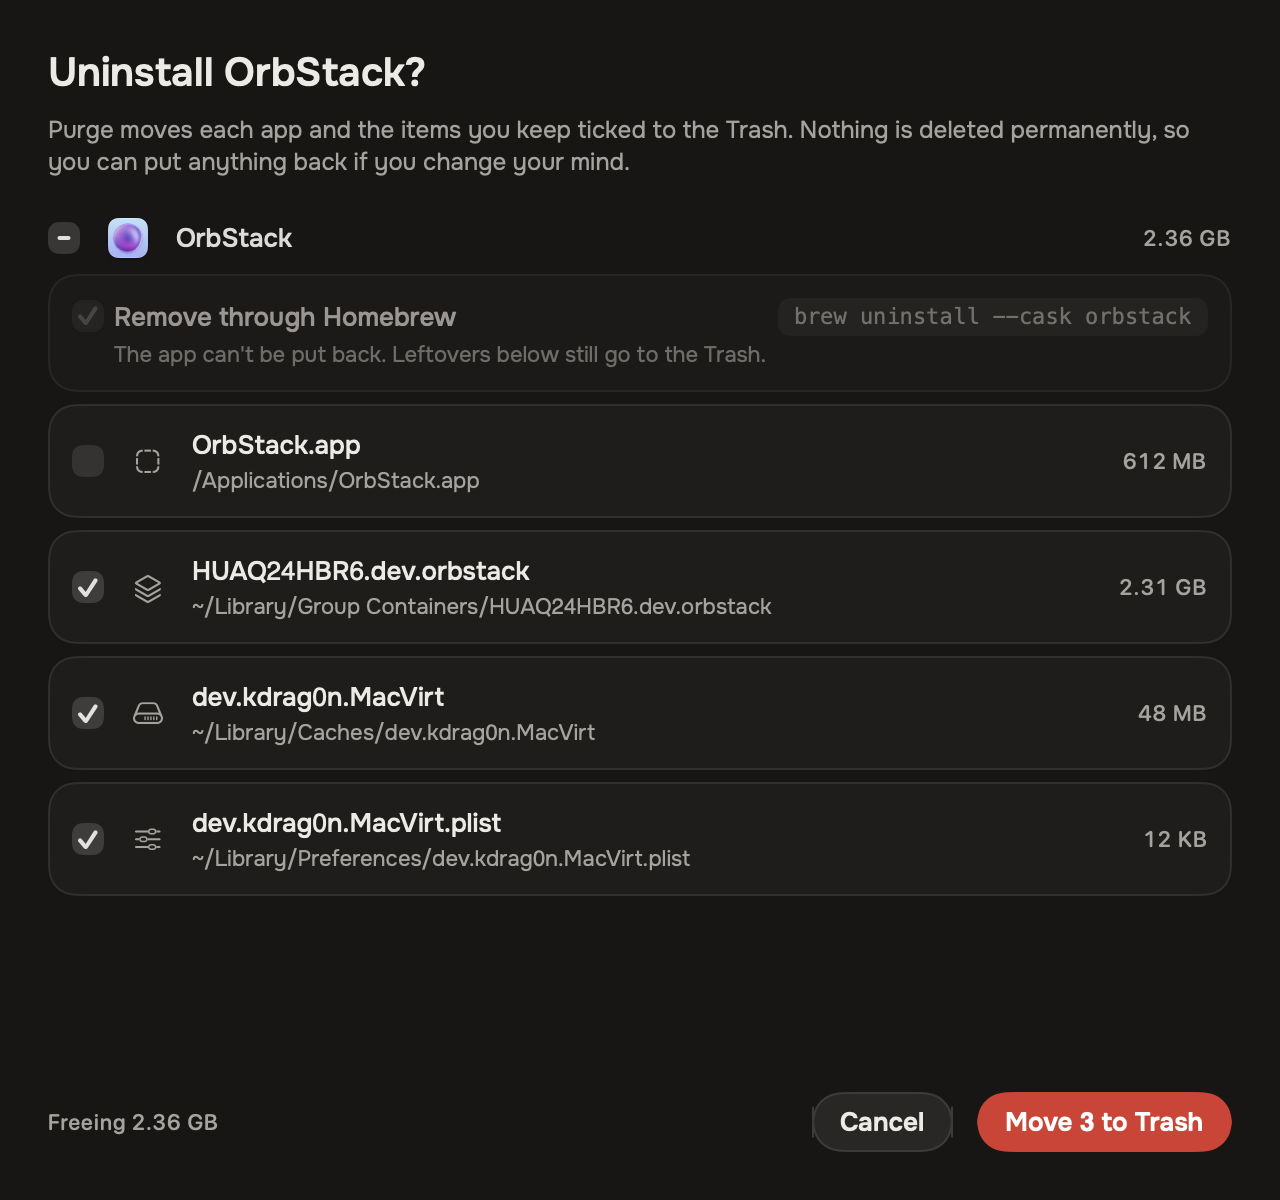
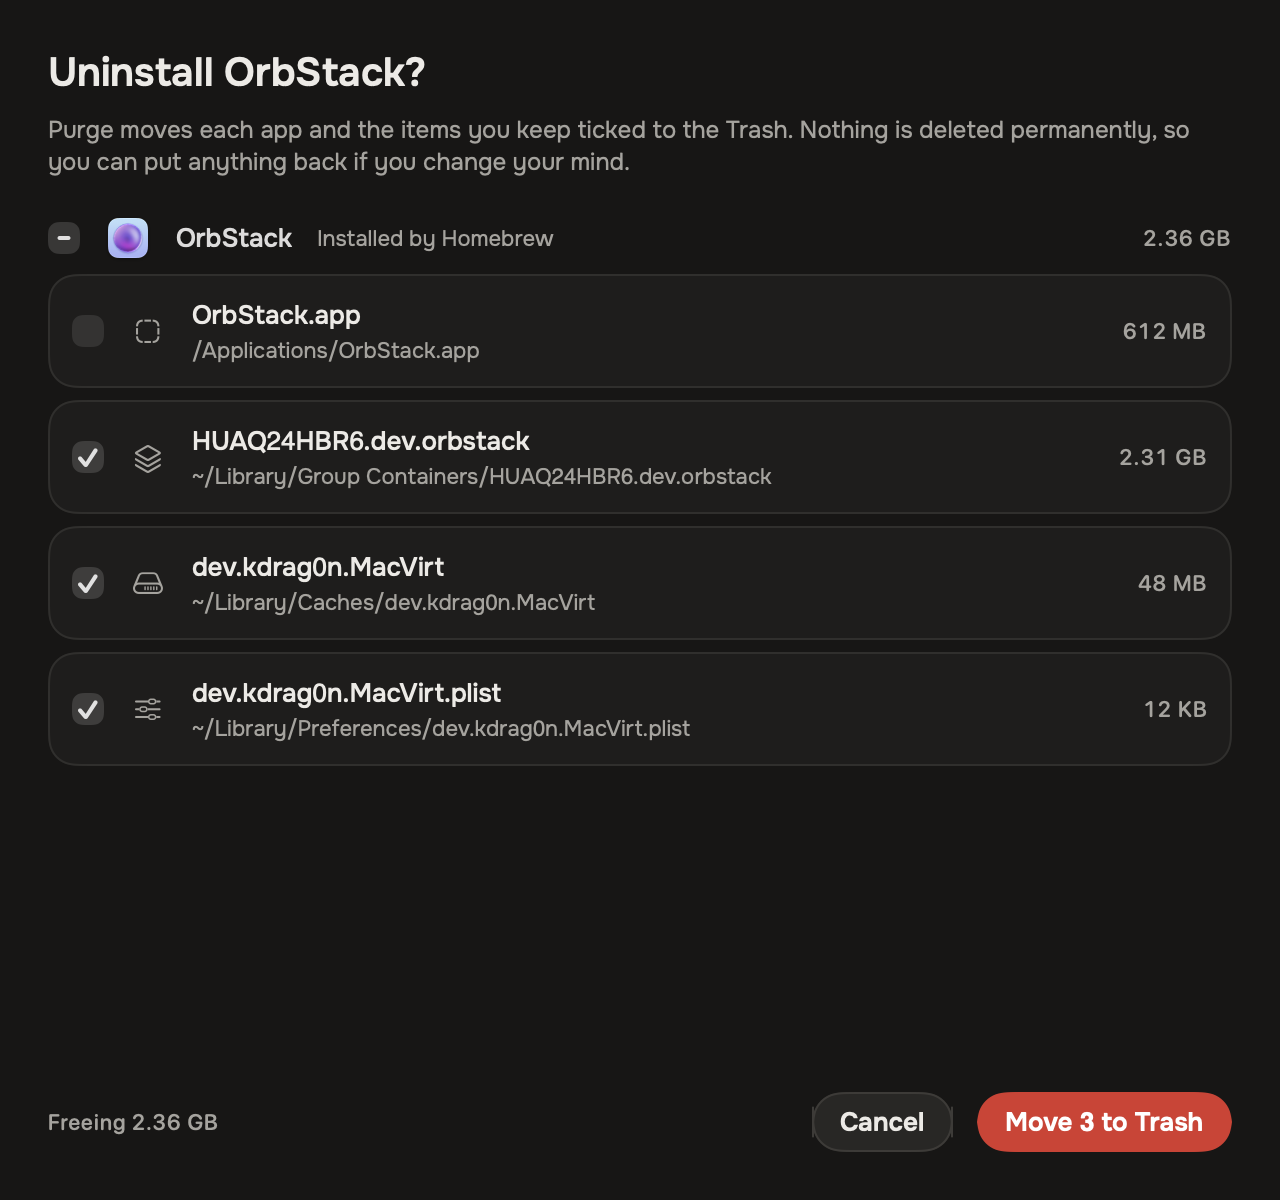
feat: make the Homebrew choice the uninstall sheet's buttons
No card and no switch. When a cask app's bundle is ticked the intro says
what each button does, the app's header says Installed by Homebrew, and
the footer offers Move All to Trash beside Remove with Homebrew. Each
button hands back the plan with every app set the way it says.

diff --git a/purge/Views/UninstallView.swift b/purge/Views/UninstallView.swift
@@ -1174,44 +1174,44 @@ struct UninstallReviewSheet: View {
         return String(localized: "Uninstall \(count) apps?")
     }
 
-    /// The intro follows where the ticked items go. Only an app Homebrew removes
-    /// (#254) is deleted permanently; the Homebrew card and the footer count say
-    /// so, so the intro only drops its promise that nothing is.
+    /// Which apps in the plan Homebrew could remove (#254): cask apps whose
+    /// bundle is ticked. They decide whether the sheet offers the two buttons.
+    static func homebrewCandidates(in plan: UninstallPlan) -> [UninstallAppPlan] {
+        plan.apps.filter { $0.app.homebrewCask != nil && $0.bundleItem?.isSelected == true }
+    }
+
+    /// The intro follows where the ticked items go. With a cask app in the
+    /// plan it explains the two buttons, because that choice is the one place
+    /// the permanent removal is decided.
     static func introText(for plan: UninstallPlan) -> String {
-        if plan.permanentlyDeletedItems.isEmpty {
+        let candidates = homebrewCandidates(in: plan)
+        if candidates.isEmpty {
             return String(localized: "Purge moves each app and the items you keep ticked to the Trash. Nothing is deleted permanently, so you can put anything back if you change your mind.")
         }
-        return String(localized: "Purge moves the items you keep ticked to the Trash, where you can put them back.")
-    }
-
-    /// The footer's count, next to the button: how many ticked items cannot
-    /// come back, and how many go to the Trash. Just the size when nothing is
-    /// permanent.
-    static func footerText(for plan: UninstallPlan) -> String {
-        let size = formatBytes(plan.totalSelectedBytes)
-        let permanent = plan.permanentlyDeletedItems.count
-        guard permanent > 0 else { return String(localized: "Freeing \(size)") }
-        return String(localized: "Freeing \(size) · \(permanent) permanent, \(plan.trashedItemCount) to the Trash")
-    }
-
-    /// Says what the button does: everything to the Trash, everything deleted
-    /// permanently, or both.
-    static func primaryButtonTitle(for plan: UninstallPlan) -> String {
-        let count = plan.totalSelectedItems
-        if plan.permanentlyDeletedItems.isEmpty { return String(localized: "Move \(count) to Trash") }
-        if plan.trashedItemCount == 0 { return String(localized: "Delete \(count) Permanently") }
-        return String(localized: "Remove \(count) Items")
-    }
-
-    /// The one line under the Homebrew toggle: what cannot come back, or what
-    /// happens with the toggle off. The command itself is a tag beside the
-    /// toggle, not part of this line.
-    static func homebrewNote(for appPlan: UninstallAppPlan) -> String? {
-        guard let cask = appPlan.app.homebrewCask else { return nil }
-        if appPlan.removesThroughHomebrew {
-            return String(localized: "The app can't be put back. Leftovers below still go to the Trash.")
+        let names = ListFormatter.localizedString(byJoining: candidates.map(\.app.name))
+        if candidates.count == 1 {
+            return String(localized: "Homebrew installed \(names). Remove with Homebrew deletes the app permanently and Homebrew forgets it. Move All to Trash keeps it recoverable, but Homebrew still lists it. Ticked leftovers move to the Trash either way.")
         }
-        return String(localized: "The app moves to the Trash. Homebrew keeps listing \(cask.token) until you run the command yourself.")
+        return String(localized: "Homebrew installed \(names). Remove with Homebrew deletes those apps permanently and Homebrew forgets them. Move All to Trash keeps them recoverable, but Homebrew still lists them. Ticked leftovers move to the Trash either way.")
+    }
+
+    /// With no cask app there is one button, as before. With one, the choice
+    /// is the button: Remove with Homebrew, or Move All to Trash beside it.
+    static func primaryButtonTitle(for plan: UninstallPlan) -> String {
+        if homebrewCandidates(in: plan).isEmpty { return String(localized: "Move \(plan.totalSelectedItems) to Trash") }
+        return String(localized: "Remove with Homebrew")
+    }
+
+    static func secondaryButtonTitle(for plan: UninstallPlan) -> String? {
+        homebrewCandidates(in: plan).isEmpty ? nil : String(localized: "Move All to Trash")
+    }
+
+    /// The plan a button hands back: every cask app set to Homebrew, or every
+    /// one set to the Trash. An app that is not a cask ignores the flag.
+    static func plan(_ plan: UninstallPlan, removingThroughHomebrew: Bool) -> UninstallPlan {
+        var plan = plan
+        for index in plan.apps.indices { plan.apps[index].removesThroughHomebrew = removingThroughHomebrew }
+        return plan
     }
 
     private func appSection(_ appPlan: Binding<UninstallAppPlan>) -> some View {
@@ -1231,6 +1231,11 @@ struct UninstallReviewSheet: View {
                     .frame(width: 24, height: 24)
                 Text(app.name)
                     .font(AppStyle.Typography.rowTitle)
+                if app.homebrewCask != nil {
+                    Text("Installed by Homebrew")
+                        .font(AppStyle.Typography.metadata)
+                        .foregroundStyle(AppColors.textSecondary)
+                }
                 if app.isRunning {
                     Text("will be quit first")
                         .font(AppStyle.Typography.metadata)
@@ -1241,10 +1246,6 @@ struct UninstallReviewSheet: View {
                     .font(AppStyle.Typography.metadataEmphasis.numbers)
                     .foregroundStyle(AppColors.textSecondary)
                     .monospacedDigit()
-            }
-
-            if app.homebrewCask != nil {
-                homebrewRow(appPlan)
             }
 
             ForEach(appPlan.items) { $item in
@@ -1258,74 +1259,6 @@ struct UninstallReviewSheet: View {
                 )
             }
         }
-    }
-
-    /// A cask app's choice (#254): Homebrew's own uninstall, which deletes the
-    /// app permanently, or the Trash. One line, a Permanent tag while it is on,
-    /// and the command as a quiet tag on the right. Greyed out while the bundle
-    /// is unticked, because then nothing removes the app either way.
-    private func homebrewRow(_ appPlan: Binding<UninstallAppPlan>) -> some View {
-        let plan = appPlan.wrappedValue
-        let bundleTicked = plan.bundleItem?.isSelected == true
-        let isOn = plan.removesThroughHomebrew && bundleTicked
-        // The command tag sits on the title line and the line below runs the
-        // full width, so a narrow sheet never squeezes the text beside the tag.
-        return Toggle(isOn: appPlan.removesThroughHomebrew) {
-            VStack(alignment: .leading, spacing: 2) {
-                HStack(spacing: AppStyle.Spacing.xSmall) {
-                    Text("Remove through Homebrew")
-                        .font(AppStyle.Typography.rowTitle)
-                        .foregroundStyle(AppColors.textPrimary)
-                    if isOn {
-                        Text("Permanent")
-                            .font(AppStyle.Typography.metadataEmphasis)
-                            .foregroundStyle(AppColors.statusCheckText)
-                            .padding(.horizontal, AppStyle.Spacing.xSmall)
-                            .padding(.vertical, 2)
-                            .background(Capsule(style: .continuous).fill(AppColors.statusCheckFill))
-                    }
-                    Spacer(minLength: AppStyle.Spacing.xSmall)
-                    if let cask = plan.app.homebrewCask {
-                        Text(cask.command)
-                            .font(AppStyle.Typography.metadata.monospaced())
-                            .foregroundStyle(AppColors.textSecondary)
-                            .lineLimit(1)
-                            .truncationMode(.middle)
-                            .padding(.horizontal, AppStyle.Spacing.xSmall)
-                            .padding(.vertical, 3)
-                            .background(
-                                RoundedRectangle(cornerRadius: AppStyle.Radius.sm, style: .continuous)
-                                    .fill(AppColors.surfaceCardHover)
-                            )
-                            .help(cask.command)
-                            // Reading the command must not flip the checkbox.
-                            .onTapGesture {}
-                    }
-                }
-                if let note = Self.homebrewNote(for: plan) {
-                    Text(note)
-                        .font(AppStyle.Typography.metadata)
-                        .foregroundStyle(AppColors.textSecondary)
-                        .fixedSize(horizontal: false, vertical: true)
-                }
-            }
-            .frame(maxWidth: .infinity, alignment: .leading)
-        }
-        .toggleStyle(.checkbox)
-        .tint(AppColors.actionPrimary)
-        .disabled(!bundleTicked)
-        .padding(.horizontal, AppStyle.Spacing.small)
-        .padding(.vertical, AppStyle.Spacing.small)
-        .frame(maxWidth: .infinity, alignment: .leading)
-        .background(
-            RoundedRectangle(cornerRadius: AppStyle.Radius.lg, style: .continuous)
-                .fill(AppColors.surfaceCard)
-        )
-        .overlay(
-            RoundedRectangle(cornerRadius: AppStyle.Radius.lg, style: .continuous)
-                .strokeBorder(AppColors.borderSubtle, lineWidth: 1)
-        )
-        .opacity(bundleTicked ? 1 : 0.6)
     }
 
     /// Tri-state over the rows the header ticks. Items kept for a surviving
@@ -1344,12 +1277,14 @@ struct UninstallReviewSheet: View {
         appPlan.wrappedValue.toggleAllFromHeader()
     }
 
+    /// One button, or two when a cask app's bundle is ticked (#254). The
+    /// choice is made here, not in a toggle, so each button hands back the
+    /// plan with every app set the way it says.
     private var footer: some View {
         HStack(spacing: AppStyle.Spacing.small) {
-            Text(Self.footerText(for: plan))
+            Text("Freeing \(formatBytes(plan.totalSelectedBytes))")
                 .font(AppStyle.Typography.metadataEmphasis.numbers)
                 .foregroundStyle(AppColors.textSecondary)
-                .lineLimit(1)
 
             Spacer()
 
@@ -1357,8 +1292,16 @@ struct UninstallReviewSheet: View {
                 .buttonStyle(.purge(.secondary))
                 .keyboardShortcut(.cancelAction)
 
+            if let secondary = Self.secondaryButtonTitle(for: plan) {
+                Button(secondary) {
+                    onConfirm(Self.plan(plan, removingThroughHomebrew: false))
+                }
+                .buttonStyle(.purge(.secondary))
+                .disabled(plan.totalSelectedItems == 0)
+            }
+
             Button(Self.primaryButtonTitle(for: plan)) {
-                onConfirm(plan)
+                onConfirm(Self.plan(plan, removingThroughHomebrew: true))
             }
             .buttonStyle(.purge(.destructive))
             .keyboardShortcut(.defaultAction)

diff --git a/PurgeTests/HomebrewCaskCatalogTests.swift b/PurgeTests/HomebrewCaskCatalogTests.swift
@@ -301,32 +301,37 @@ struct HomebrewCaskUninstallPlanTests {
     }
 
     @Test
-    func theSheetSaysWhatIsPermanent() {
+    func theSheetOffersTheChoiceAsTwoButtons() {
         let orb = app("OrbStack", cask: cask)
+        let keka = app("Keka", cask: HomebrewCask(token: "keka", prefix: cask.prefix))
         let plain = app("Plain", cask: nil)
-        let mixed = UninstallPlan(id: "m", apps: [UninstallAppPlan(app: orb, items: items(for: orb))])
-        let trashOnly = UninstallPlan(id: "t", apps: [UninstallAppPlan(app: plain, items: items(for: plain))])
-        let bundleOnly = UninstallPlan(id: "b", apps: [
-            UninstallAppPlan(app: orb, items: [items(for: orb)[0]])
-        ])
+        let one = UninstallPlan(id: "o", apps: [UninstallAppPlan(app: orb, items: items(for: orb))])
+        let two = UninstallPlan(id: "t", apps: [UninstallAppPlan(app: orb, items: items(for: orb)), UninstallAppPlan(app: keka, items: items(for: keka))])
+        let trashOnly = UninstallPlan(id: "p", apps: [UninstallAppPlan(app: plain, items: items(for: plain))])
+        let leftoversOnly = UninstallPlan(id: "l", apps: [UninstallAppPlan(app: orb, items: items(for: orb, bundleSelected: false))])
 
+        // No cask app, or a cask app whose bundle is unticked: one button, as before.
         #expect(UninstallReviewSheet.introText(for: trashOnly).contains("Nothing is deleted permanently"))
-        #expect(!UninstallReviewSheet.introText(for: mixed).contains("Nothing is deleted permanently"))
         #expect(UninstallReviewSheet.primaryButtonTitle(for: trashOnly) == "Move 2 to Trash")
-        #expect(UninstallReviewSheet.primaryButtonTitle(for: mixed) == "Remove 2 Items")
-        #expect(UninstallReviewSheet.primaryButtonTitle(for: bundleOnly) == "Delete 1 Permanently")
-        // The footer counts what cannot come back, next to the button.
-        #expect(UninstallReviewSheet.footerText(for: trashOnly) == "Freeing \(formatBytes(1_200))")
-        #expect(UninstallReviewSheet.footerText(for: mixed) == "Freeing \(formatBytes(1_200)) · 1 permanent, 1 to the Trash")
-        #expect(UninstallReviewSheet.footerText(for: bundleOnly) == "Freeing \(formatBytes(1_000)) · 1 permanent, 0 to the Trash")
+        #expect(UninstallReviewSheet.secondaryButtonTitle(for: trashOnly) == nil)
+        #expect(UninstallReviewSheet.primaryButtonTitle(for: leftoversOnly) == "Move 1 to Trash")
+        #expect(UninstallReviewSheet.secondaryButtonTitle(for: leftoversOnly) == nil)
 
-        let on = UninstallAppPlan(app: orb, items: items(for: orb))
-        var off = on
-        off.removesThroughHomebrew = false
-        #expect(UninstallReviewSheet.homebrewNote(for: on)?.contains("can't be put back") == true)
-        #expect(UninstallReviewSheet.homebrewNote(for: off)?.contains("moves to the Trash") == true)
-        #expect(UninstallReviewSheet.homebrewNote(for: UninstallAppPlan(app: plain, items: items(for: plain))) == nil)
-        // The command sits beside the toggle as a tag, so it must name the cask.
+        // A cask app with its bundle ticked: the intro names it and says what
+        // each button does, and the footer offers both.
+        #expect(UninstallReviewSheet.introText(for: one).hasPrefix("Homebrew installed OrbStack."))
+        #expect(UninstallReviewSheet.introText(for: one).contains("deletes the app permanently"))
+        #expect(UninstallReviewSheet.introText(for: two).hasPrefix("Homebrew installed OrbStack and Keka."))
+        #expect(UninstallReviewSheet.introText(for: two).contains("deletes those apps permanently"))
+        #expect(UninstallReviewSheet.primaryButtonTitle(for: one) == "Remove with Homebrew")
+        #expect(UninstallReviewSheet.secondaryButtonTitle(for: one) == "Move All to Trash")
+
+        // Each button hands back the plan with every app set the way it says.
+        let toTrash = UninstallReviewSheet.plan(two, removingThroughHomebrew: false)
+        #expect(toTrash.apps.allSatisfy { !$0.removesThroughHomebrew })
+        #expect(toTrash.permanentlyDeletedItems.isEmpty)
+        let viaHomebrew = UninstallReviewSheet.plan(two, removingThroughHomebrew: true)
+        #expect(viaHomebrew.permanentlyDeletedItems.map(\.path) == [orb.bundleURL, keka.bundleURL])
         #expect(cask.command == "brew uninstall --cask orbstack")
     }
 }

diff --git a/PurgeTests/HomebrewCaskUninstallStoreTests.swift b/PurgeTests/HomebrewCaskUninstallStoreTests.swift
@@ -127,11 +127,11 @@ struct HomebrewCaskUninstallStoreTests {
         #expect(watcherTold)
     }
 
-    /// With the sheet's toggle off, Homebrew never runs and the app takes the
-    /// Trash route, which the safety gate declines for a bundle outside the app
-    /// folders.
+    /// Move All to Trash hands back the plan with the Homebrew flag off, so
+    /// Homebrew never runs and the app takes the Trash route, which the safety
+    /// gate declines for a bundle outside the app folders.
     @Test
-    func theToggleOffNeverRunsHomebrew() async throws {
+    func moveAllToTrashNeverRunsHomebrew() async throws {
         let fixture = try makeFixture()
         defer { try? fm.removeItem(at: fixture.root) }
         let scans = FakeScans()

diff --git a/CLAUDE.md b/CLAUDE.md
@@ -50,7 +50,7 @@ Cloud sessions run on Linux, so they can build no Swift code. Run the two Linux 
   - Another exception is the Apple Intelligence models (#133). Purge deletes no files there: Apple's asset service releases each set, one name per request, from the fixed list in `purge/Models/AppleIntelligenceModels.swift`. A release with an empty list means every asset on the Mac, so `PurgeAssetWorker/` refuses one and the app never builds one. Don't use this exception as a pattern for anything else.
   - Simulator runtimes (#104) are the third exception. Purge deletes no files there either. `simctl runtime delete` removes each image by the identifier `simctl runtime list` gave it, and the path on the row is only a handle. The gates are these. The scan keeps only images `simctl` marks `deletable` (`SimulatorRuntime.parseRuntimeList`). Runtimes are always Check First (#136), and the user must pick the row and confirm. Clean Safe Items and scheduled cleans never pass runtime identifiers to `FileDeleter`, even for a row marked Safe. A runtime path that reaches `FileDeleter` without its identifier goes to `evaluate`, which refuses it. `PurgeTests/SimulatorRuntimeTests.swift`, `SimulatorRuntimeStoreTests.swift`, and `FileDeleterSimulatorRuntimeTests.swift` check each gate. Simulator devices are not part of this exception: they go through `evaluate` before `simctl delete`.
   - Package-manager tools (#225) are the fourth exception. Purge deletes no files there either. It runs the manager's own uninstall (`brew uninstall --formula`, `npm uninstall -g`, `pipx uninstall`, `uv tool uninstall`, `cargo uninstall`) for each tool the user ticked and confirmed, one at a time, with an absolute program path, argv and no shell, through `PackageManagerUninstaller`. It never adds a flag that skips the manager's dependency checks. Names come from folders on disk, so `PackageManager.isValidPackageName` checks them first. Nothing a manager owns is ever a `FileDeleter` candidate.
-  - Homebrew cask apps (#254) are the fifth exception, and use the fourth's runner. `HomebrewCaskCatalog` reads the Caskroom link `Caskroom/<token>/<version>/<App>.app -> /Applications/<App>.app` and nothing else; an app is a cask's only when that link points at its bundle, re-read at delete time. The review sheet has a per-app toggle, on by default, and says Homebrew deletes the app permanently. Purge runs `brew uninstall --cask <token>` through `PackageManagerUninstaller`, never `--force` or `--zap`, then `brew cleanup --scrub <token>` to drop the cask's cached download (a plain `brew cleanup` keeps it), and its own leftover review still moves the rest to the Trash. If Homebrew refuses, the app takes the ordinary Trash route and the completion screen shows Homebrew's message. Clean Safe Items and scheduled cleans never reach this.
+  - Homebrew cask apps (#254) are the fifth exception, and use the fourth's runner. `HomebrewCaskCatalog` reads the Caskroom link `Caskroom/<token>/<version>/<App>.app -> /Applications/<App>.app` and nothing else; an app is a cask's only when that link points at its bundle, re-read at delete time. The review sheet offers two buttons when a cask app's bundle is ticked, Remove with Homebrew and Move All to Trash, and its intro says Homebrew deletes the app permanently. Purge runs `brew uninstall --cask <token>` through `PackageManagerUninstaller`, never `--force` or `--zap`, then `brew cleanup --scrub <token>` to drop the cask's cached download (a plain `brew cleanup` keeps it), and its own leftover review still moves the rest to the Trash. If Homebrew refuses, the app takes the ordinary Trash route and the completion screen shows Homebrew's message. Clean Safe Items and scheduled cleans never reach this.
 - Files go to the Trash. Simulators, simulator runtimes, Time Machine snapshots, the Apple Intelligence models, and tools a package manager removes are removed for good, and the UI and docs must say so. Anything removed for good is never `.safe`, because Clean Safe Items and scheduled cleans only move things to the Trash (#136).
 - Run the `deletion-safety-check` skill before you open a PR that touches any of these:
   - `purge/Services/DeletionSafetyPolicy.swift`, `SafetyTierList.swift`, `SafetyAllowlistSummary.swift`, `FileDeleter.swift`

diff --git a/README.md b/README.md
@@ -121,7 +121,7 @@ Dragging an app to the Trash leaves most of it behind: caches, preferences, cont
 - Select one or more apps, then review a per-app sheet that lists every item with its path and size and a safety label
 - Matching is strict, so uninstalling one app can't sweep in files shared across a vendor's apps. Exact bundle-id and app-group matches arrive checked; looser name-only matches arrive unchecked for you to confirm
 - A running app is asked to quit first, and only gracefully. If it won't, it's left installed and the rest of the batch still goes through
-- Everything confirmed moves to **Trash** through the same delete engine as the rest of Purge, so it can all come back. The one exception is an app Homebrew installed as a cask: the review sheet offers to remove it through `brew uninstall --cask`, on by default with a per-app toggle, and says that Homebrew deletes the app permanently. Its leftovers still go to the Trash, and if Homebrew refuses, the app goes to the Trash instead
+- Everything confirmed moves to **Trash** through the same delete engine as the rest of Purge, so it can all come back. The one exception is an app Homebrew installed as a cask: the review sheet offers two buttons, Remove with Homebrew and Move All to Trash, and says that Homebrew deletes the app permanently. Its leftovers still go to the Trash, and if Homebrew refuses, the app goes to the Trash instead
 - Optional, off by default: turn on **Review leftovers when an app is deleted** in Settings. A small background watcher then notices when an app leaves **Applications** or **~/Applications** — even if Purge is quit — opens Purge with just that app's leftovers, and gets out of the way after you confirm or dismiss. Nothing moves without that review
 
 ### Safety labels

diff --git a/SECURITY.md b/SECURITY.md
@@ -31,7 +31,7 @@ patient, but safety reports get priority over everything else.
   Homebrew cask apps you tick for removal through their package manager are
   uninstalled by that manager (`brew uninstall`, `npm uninstall -g`, and so
   on), which deletes them permanently; the review sheet says so, and a cask
-  app has a toggle to take the Trash route instead. Docker Desktop's data
+  app has a Move All to Trash button to take the Trash route instead. Docker Desktop's data
   folder goes to the Trash. Purge does not run `docker system prune`.
 - **Allowlist-based deletion.** Only paths that match an explicit safety
   allowlist are ever eligible for cleanup. Anything not on the list is never
